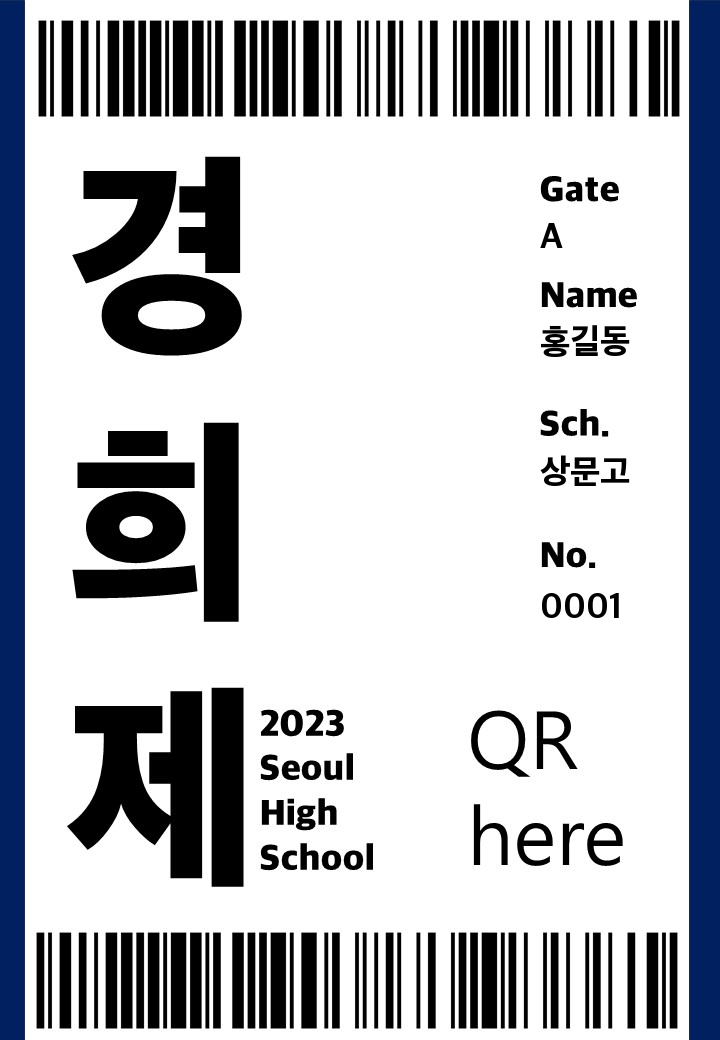
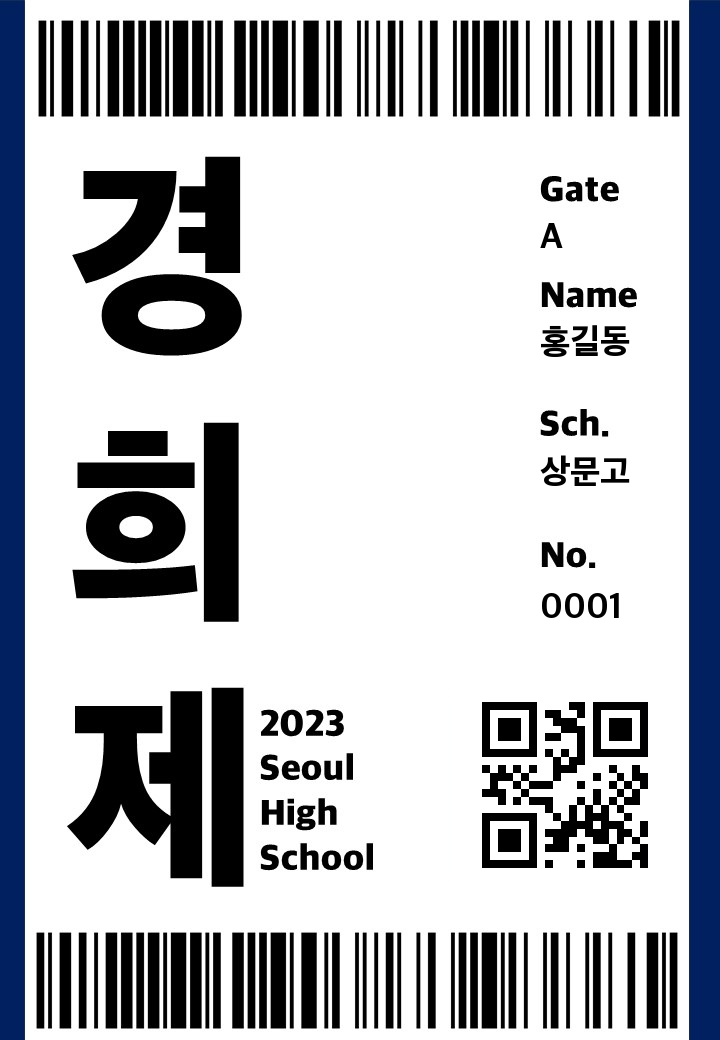
almost completed ticketgeneator

Changed region(s): [[0.6417, 0.6769, 0.9167, 0.8615]]

diff --git a/makeTicket.py b/makeTicket.py
@@ -1,5 +1,5 @@
 from processData import GetPersonalData
-# from makeQR import GetQR
+from makeQR import GetQR
 from PIL import Image, ImageDraw, ImageFont
 import pandas
 
@@ -7,6 +7,11 @@ class makeTicket():
     def __init__(self) -> None:
         self.personalData = GetPersonalData('visitorList.xlsx')
         self.data = self.personalData.GetCode()
+        self.qr = GetQR()
+        for i in range(self.qr.data.shape[1]):
+            num_four = str(i+1).zfill(4)
+            self.qr.makeQR(num_four)
+
         return
     def makeImage(self, num):
         self.bg = Image.open('template.jpg')
@@ -27,8 +32,16 @@ class makeTicket():
         self.draw.text(self.GatePos, code[0], fill = (0,0,0), font = self.font)
         self.draw.text(self.NumPos, code[1:5], fill = (0,0,0), font = self.font)
 
-        self.bg.save(f'savedImg/{num}.png')
+        self.qr = Image.open(f'qrcodes/{code[1:5]}.jpg')
+        self.qr = self.qr.resize((230, 230)) 
+        
+        self.bg.paste(self.qr, (450, 670), self.qr)
+        
 
+
+
+        self.bg.save(f'savedImg/{num}.png')
+        
 #fortest
 a = makeTicket()
 

diff --git a/makeQR.py b/makeQR.py
@@ -6,9 +6,7 @@ class GetQR():
     def __init__(self) -> None:
         self.personalData = GetPersonalData('visitorList.xlsx')
         self.data = self.personalData.GetCode()
-        for i in range(self.data.shape[1]):
-            num_four = str(i+1).zfill(4)
-            self.makeQR(num_four)
+        
         return
     
     def makeQR(self, num):
